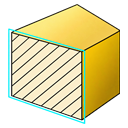
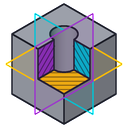
Turn the Clipping Planes toolbar button into a preset flyout
The button keeps its main-click behavior (show/hide the Clipping Planes
panel) and gains a press-and-hold flyout with No Clipping, the seven
XY/YZ/ZX combinations, and Box. Picking an entry applies exactly that
combination through the panel's own checkboxes (so mutual exclusion and
render state run as if ticked by hand) and opens the panel; No Clipping
just switches everything off. The button's icon and the ticked flyout
entry follow whichever combination is active, however it was reached
(panel checkboxes, a preset, Reset All).

Icons are rendered from the actual cut geometry (one block with a
hole, one shared view, removed region = intersection of the enabled
planes' removed half-spaces, caps on the cut faces) rather than
hand-drawn, plus a clip_none icon for the empty state and a refreshed
section.png for the View menu action.

diff --git a/src/ViewToolbar.cpp b/src/ViewToolbar.cpp
@@ -33,6 +33,48 @@ QString debugOverlayIconPath(DebugOverlayActions action, bool enabled)
 
     return QStringLiteral(":/icons/res/hide_bounding_box.png");
 }
+
+// Clipping Planes flyout presets, in menu order. xy/yz/zx use the panel's own
+// naming (XY = the Z-normal plane, YZ = X-normal, ZX = Y-normal). Entry 0 is "No
+// Clipping" (everything off) - the way back to the empty state from the toolbar;
+// then every one of the seven non-empty plane combinations plus Box, so any state
+// the panel can be in maps to exactly one entry.
+struct ClippingPresetInfo
+{
+    const char* icon;
+    bool xy, yz, zx, box;
+};
+constexpr ClippingPresetInfo kClippingPresets[] = {
+    { ":/icons/res/clip_none.png",     false, false, false, false },
+    { ":/icons/res/clip_xy.png",       true,  false, false, false },
+    { ":/icons/res/clip_yz.png",       false, true,  false, false },
+    { ":/icons/res/clip_zx.png",       false, false, true,  false },
+    { ":/icons/res/clip_yz_zx.png",    false, true,  true,  false },
+    { ":/icons/res/clip_xy_zx.png",    true,  false, true,  false },
+    { ":/icons/res/clip_xy_yz.png",    true,  true,  false, false },
+    { ":/icons/res/clip_xy_yz_zx.png", true,  true,  true,  false },
+    { ":/icons/res/clip_box.png",      false, false, false, true  },
+};
+constexpr int kClippingPresetCount = static_cast<int>(sizeof(kClippingPresets) / sizeof(kClippingPresets[0]));
+// Shown on the button while no plane and no box is enabled: the same block and
+// hole, uncut, with a faint dashed plane - "clipping available, nothing applied".
+constexpr const char* kGenericClippingIcon = ":/icons/res/clip_none.png";
+
+QString clippingPresetText(int index)
+{
+    switch (index)
+    {
+    case 0: return ViewToolbar::tr("No Clipping");
+    case 1: return ViewToolbar::tr("XY Plane");
+    case 2: return ViewToolbar::tr("YZ Plane");
+    case 3: return ViewToolbar::tr("ZX Plane");
+    case 4: return ViewToolbar::tr("YZ + ZX");
+    case 5: return ViewToolbar::tr("XY + ZX");
+    case 6: return ViewToolbar::tr("XY + YZ");
+    case 7: return ViewToolbar::tr("XY + YZ + ZX");
+    default: return ViewToolbar::tr("Box");
+    }
+}
 }
 
 void ViewToolbar::scopeShortcutToViewport(QAction* action)
@@ -798,16 +840,45 @@ ViewToolbar::ViewToolbar(QWidget* viewport, QWidget* parent)
 
     // Section View
     separator();
-    _sectionBtn = new QToolButton(this);
-    _sectionBtn->setStyleSheet(buttonStyleSheet);
-    _sectionBtn->setIcon(QIcon(":/icons/res/section.png"));
+    // A toggle button with a flyout (same shape as the Debug Overlays button
+    // below): the main click still only shows/hides the Clipping Planes panel
+    // through _sectionAction, which stays the button's default action; the
+    // flyout (press-and-hold) picks a preset combination of planes / the box.
+    // The button's icon follows the current combination by changing
+    // _sectionAction's icon (a default-action button mirrors its action), not
+    // the button's own - see setClippingState().
+    _sectionBtn = new FlyOutViewButton(this);
+    _sectionBtn->setStyleSheet(flyoutToggleButtonStyleSheet);
+    _sectionBtn->setIcon(QIcon(kGenericClippingIcon));
     _sectionBtn->setIconSize(QSize(40, 40));
     _sectionBtn->setToolTip(tr("Clipping Planes"));
     _sectionBtn->setCheckable(true);
+    _sectionBtn->setPopupMode(QToolButton::DelayedPopup);
     _sectionBtn->setAutoRaise(true);
     _mainLayout->addWidget(_sectionBtn);
     _sectionAction = bindButtonAction(_sectionBtn, QStringLiteral("sectionAction"));
     connect(_sectionAction, &QAction::triggered, this, [this](bool checked) { emit sectionViewToggled(checked); });
+
+    QMenu* clippingMenu = new QMenu;
+    clippingMenu->setStyleSheet(flyoutStyleSheet);
+    for (int i = 0; i < kClippingPresetCount; ++i)
+    {
+        if (i == 1)
+            clippingMenu->addSeparator(); // sets "No Clipping" apart from the combinations
+        const ClippingPresetInfo& preset = kClippingPresets[i];
+        QAction* presetAction = clippingMenu->addAction(QIcon(QString::fromLatin1(preset.icon)), clippingPresetText(i));
+        presetAction->setCheckable(true);
+        _clippingPresetActions.append(presetAction);
+        connect(presetAction, &QAction::triggered, this, [this, i]() {
+            const ClippingPresetInfo& p = kClippingPresets[i];
+            emit clippingPresetRequested(p.xy, p.yz, p.zx, p.box);
+            // Normalize the check marks/icon right away: the entry just toggled
+            // its own check state, and re-picking the current preset changes no
+            // clipping state, so nothing else would call setClippingState().
+            setClippingState(p.xy, p.yz, p.zx, p.box);
+        });
+    }
+    _sectionBtn->setMenu(clippingMenu);
 
     // Exploded View
     _explodedBtn = new QToolButton(this);
@@ -951,7 +1022,8 @@ void ViewToolbar::stopScrolling()
 
 bool ViewToolbar::isFlyoutMenuVisible() const
 {
-	return (_btnLassoSelect && _btnLassoSelect->menu() && _btnLassoSelect->menu()->isVisible()) || (_toolButtonViewModes &&
+	return (_btnLassoSelect && _btnLassoSelect->menu() && _btnLassoSelect->menu()->isVisible()) ||
+		(_sectionBtn && _sectionBtn->menu() && _sectionBtn->menu()->isVisible()) || (_toolButtonViewModes &&
 		_toolButtonViewModes->menu() &&
 		_toolButtonViewModes->menu()->isVisible()) ||
 		(_toolButtonCameraModes &&
@@ -1153,6 +1225,36 @@ void ViewToolbar::setSectionViewChecked(bool checked)
     _sectionAction->setChecked(checked);
 }
 
+void ViewToolbar::setClippingState(bool xy, bool yz, bool zx, bool box)
+{
+    if (!_sectionAction)
+        return;
+
+    int match = -1;
+    for (int i = 0; i < kClippingPresetCount; ++i)
+    {
+        const ClippingPresetInfo& p = kClippingPresets[i];
+        if (p.xy == xy && p.yz == yz && p.zx == zx && p.box == box)
+        {
+            match = i;
+            break;
+        }
+    }
+
+    // Passive: QAction::setChecked() emits toggled(), never triggered(), and only
+    // triggered() dispatches clippingPresetRequested().
+    for (int i = 0; i < _clippingPresetActions.size(); ++i)
+        _clippingPresetActions[i]->setChecked(i == match);
+
+    // The panel calls this on every clipping-plane update (including each frame of
+    // a gizmo drag), so only touch the button's icon when the combination changed.
+    if (match != _currentClippingPreset)
+    {
+        _sectionAction->setIcon(QIcon(QString::fromLatin1(match >= 0 ? kClippingPresets[match].icon : kGenericClippingIcon)));
+        _currentClippingPreset = match;
+    }
+}
+
 void ViewToolbar::setExplodedViewChecked(bool checked)
 {
     // Only triggered() dispatches commands; checked-state sync is passive.
@@ -1311,6 +1413,8 @@ void ViewToolbar::retranslateUI()
 
 	// Section View
 	_sectionAction->setToolTip(tr("Clipping Planes"));
+	for (int i = 0; i < _clippingPresetActions.size(); ++i)
+		_clippingPresetActions[i]->setText(clippingPresetText(i));
 
 	// Exploded View
 	_explodedAction->setToolTip(tr("Exploded View"));

diff --git a/include/ViewToolbar.h b/include/ViewToolbar.h
@@ -47,6 +47,12 @@ public:
     void setDefaultShadingNormalModeAction(ShadingNormalModeActions mode);
     void setSwapVisibleChecked(bool checked);
     void setSectionViewChecked(bool checked);
+    // Passive sync of the Clipping Planes button's flyout to the panel's current
+    // combination: shows the matching preset's icon on the button and checks the
+    // matching flyout entry, or falls back to the generic clipping icon when no
+    // plane and no box is enabled. Never emits clippingPresetRequested().
+    // xy/yz/zx name the planes as the panel does (XY = the Z-normal plane, etc.).
+    void setClippingState(bool xy, bool yz, bool zx, bool box);
     void setExplodedViewChecked(bool checked);
     void setCameraUpAxisZUp(bool zUp);
     bool isCameraUpAxisZUp() const;
@@ -71,6 +77,11 @@ signals:
     void windowZoomRequested();
     void multiViewToggled(bool enabled);
     void sectionViewToggled(bool enabled);
+    // A clipping preset was picked from the Clipping Planes flyout: enable exactly
+    // this combination of planes (or the box) and disable the rest. The main
+    // button click is unchanged and still only shows/hides the panel
+    // (sectionViewToggled).
+    void clippingPresetRequested(bool xy, bool yz, bool zx, bool box);
     void explodedViewToggled(bool enabled);
     void swapVisibleToggled(bool enabled);
     void axisDisplayToggled(bool enabled);
@@ -191,8 +202,14 @@ private:
     QAction* _vertexNormalsOverlay;
     QAction* _faceNormalsOverlay;
 
+    // Clipping Planes flyout: one action per preset, in the fixed order of
+    // kClippingPresets in the .cpp (No Clipping, XY, YZ, ZX, YZ+ZX, XY+ZX, XY+YZ,
+    // XY+YZ+ZX, Box).
+    QList<QAction*> _clippingPresetActions;
+    int _currentClippingPreset = 0; // index into the presets; 0 = No Clipping
+
     // Other buttons
-    QToolButton* _sectionBtn;
+    QToolButton* _sectionBtn; // a FlyOutViewButton: main click toggles the panel, the flyout picks a preset
     QToolButton* _explodedBtn;
     QToolButton* _swapBtn;
     QToolButton* _axisBtn;

diff --git a/src/ViewportWidget.cpp b/src/ViewportWidget.cpp
@@ -347,6 +347,21 @@ _floorPlane(nullptr),
 		 showClippingPlaneEditor(enabled);
 		 });
 
+	 // Picking a preset from the Clipping Planes flyout applies exactly that
+	 // combination through the panel's own checkboxes (so its mutual-exclusion and
+	 // render-state handlers run as if the user had ticked them) and opens the
+	 // panel; the main button click is unchanged and only shows/hides it.
+	 connect(_viewToolbar, &ViewToolbar::clippingPresetRequested, this, [this](bool xy, bool yz, bool zx, bool box) {
+		 _clippingPlanesEditor->applyPreset(xy, yz, zx, box);
+		 // "No Clipping" (all false) just switches everything off - no reason to
+		 // pop the panel open for that; any real combination opens it.
+		 if (xy || yz || zx || box)
+		 {
+			 showClippingPlaneEditor(true);
+			 _viewToolbar->setSectionViewChecked(true);
+		 }
+		 });
+
 	 connect(_viewToolbar, &ViewToolbar::explodedViewToggled, this, [this](bool enabled) {
 		 showExplodedViewPanel(enabled);
 		 });
@@ -3374,6 +3389,14 @@ void ViewportWidget::updateClippingPlane()
 
 	updatePlaneGizmos();
 	updateClipBoxGizmos();
+
+	// Keep the toolbar's Clipping Planes flyout icon in step with whichever
+	// planes/box are enabled, however that came about (panel checkboxes, a preset,
+	// Reset All). ViewToolbar only touches its icon when the combination changed,
+	// so calling this on every update - including each frame of a gizmo drag - is
+	// cheap. The toolbar may not exist yet during early initialization.
+	if (_viewToolbar)
+		_viewToolbar->setClippingState(xyClippingEnabled(), yzClippingEnabled(), zxClippingEnabled(), _renderCtrl.boxClippingEnabled());
 }
 
 void ViewportWidget::updatePlaneGizmos()

diff --git a/include/ClippingPlanesEditor.h b/include/ClippingPlanesEditor.h
@@ -47,6 +47,13 @@ public:
 	void setYCoeffDisplay(double value);
 	void setZCoeffDisplay(double value);
 
+	// Applies one of the toolbar flyout's presets: exactly this combination of the
+	// three planes (or, if `box`, the box) on and everything else off. Goes through
+	// the checkboxes so their own toggled handlers - mutual exclusion with Box,
+	// render state, viewport update - run exactly as if the user had ticked them.
+	// xy/yz/zx use this panel's own naming (XY = the Z-normal plane).
+	void applyPreset(bool xy, bool yz, bool zx, bool box);
+
 	// ---- Box clipping (4th mode) --------------------------------------------
 	// Box limits are ABSOLUTE world coordinates (unlike the relative axis
 	// coefficients above), so their spin boxes get their own range setter fed

diff --git a/src/ClippingPlanesEditor.cpp b/src/ClippingPlanesEditor.cpp
@@ -304,6 +304,23 @@ void ClippingPlanesEditor::on_checkBoxShowGizmo_toggled(bool /*checked*/)
 	_viewportWidget->update();
 }
 
+void ClippingPlanesEditor::applyPreset(bool xy, bool yz, bool zx, bool box)
+{
+	if (box)
+	{
+		// Ticking Box unticks the three planes itself (see on_checkBoxBoxClip_toggled()).
+		checkBoxBoxClip->setChecked(true);
+		return;
+	}
+
+	// Box off first, then the planes: an axis handler would also untick Box when it
+	// is newly ticked, but doing it explicitly keeps this independent of that.
+	checkBoxBoxClip->setChecked(false);
+	checkBoxXY->setChecked(xy);
+	checkBoxYZ->setChecked(yz);
+	checkBoxZX->setChecked(zx);
+}
+
 QDoubleSpinBox* ClippingPlanesEditor::boxSpin(int face) const
 {
 	switch (face)
